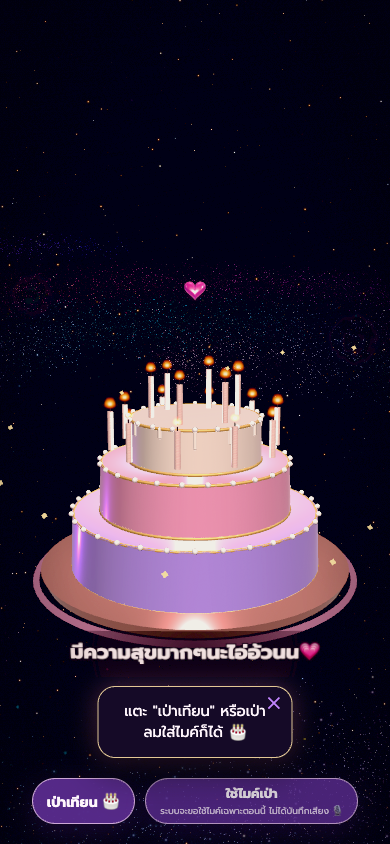
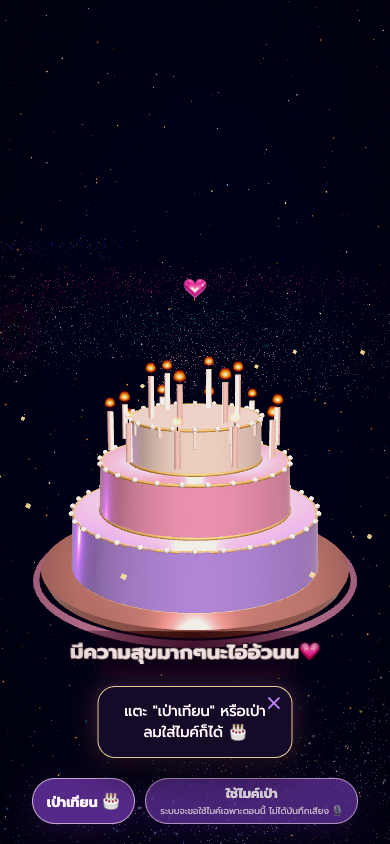
fix(cake): cancel blowOut in reduced-motion and add blowGeneration token guard (TEST 6)

diff --git a/src/scene/cosmicCake.js b/src/scene/cosmicCake.js
@@ -426,6 +426,7 @@ export function createCosmicCake(scene, quality = { tier: 'high' }, { enabled = 
   let blown = false;
   let blowingOut = false;
   let blowTimeouts = [];
+  let blowGeneration = 0;
   let breathStrength = 0;
   let lastLitCandleCount = 0;
   const reducedMotion = window.matchMedia('(prefers-reduced-motion: reduce)').matches;
@@ -527,6 +528,7 @@ export function createCosmicCake(scene, quality = { tier: 'high' }, { enabled = 
     },
 
     cancelBlowOut() {
+      blowGeneration++;
       blowTimeouts.forEach(id => clearTimeout(id));
       blowTimeouts = [];
       blowingOut = false;
@@ -537,6 +539,7 @@ export function createCosmicCake(scene, quality = { tier: 'high' }, { enabled = 
       if (!revealed || blown) return false;
       blown = true;
       blowingOut = true;
+      const currentGen = ++blowGeneration;
       blowTimeouts.forEach(id => clearTimeout(id));
       blowTimeouts = [];
 
@@ -544,9 +547,11 @@ export function createCosmicCake(scene, quality = { tier: 'high' }, { enabled = 
         flames.forEach((flame) => { flame.visible = false; });
         cakePointLight.intensity = 0;
         const rmId = window.setTimeout(() => {
+          if (currentGen !== blowGeneration) return;
           blowingOut = false;
           onComplete?.();
         }, 600);
+        blowTimeouts.push(rmId);
       } else {
         // Phase D2: 0.0s - 0.6s: Flame flutter & wind response
         // 0.6s onwards: sequential extinguishing at 220ms per candle (15 intervals * 220ms = 3300ms + 600ms prelude + 500ms pause = 4.4s)
@@ -554,6 +559,7 @@ export function createCosmicCake(scene, quality = { tier: 'high' }, { enabled = 
         const INTERVAL = 220;
         flames.forEach((flame, index) => {
           const timeoutId = window.setTimeout(() => {
+            if (currentGen !== blowGeneration) return;
             flame.visible = false;
             // Trigger lavender smoke puff
             const smoke = smokePuffs[index];
@@ -569,9 +575,10 @@ export function createCosmicCake(scene, quality = { tier: 'high' }, { enabled = 
 
             if (index === flames.length - 1) {
               cakePointLight.intensity = 0;
-              blowingOut = false;
               // 0.5s pause in serene darkness before celebration
               const finalTimeout = window.setTimeout(() => {
+                if (currentGen !== blowGeneration) return;
+                blowingOut = false;
                 onComplete?.();
               }, 500);
               blowTimeouts.push(finalTimeout);
@@ -646,6 +653,7 @@ export function createCosmicCake(scene, quality = { tier: 'high' }, { enabled = 
     },
 
     hide() {
+      blowGeneration++;
       group.visible = false;
       group.position.set(0, -30, -5);
       group.scale.setScalar(1);
@@ -691,6 +699,7 @@ export function createCosmicCake(scene, quality = { tier: 'high' }, { enabled = 
     },
 
     dispose() {
+      blowGeneration++;
       blowTimeouts.forEach(id => clearTimeout(id));
       blowTimeouts = [];
       blowingOut = false;

diff --git a/ANTIGRAVITY_HANDOFF.md b/ANTIGRAVITY_HANDOFF.md
@@ -23,13 +23,14 @@
    - กำหนด `INTERVAL = 220` ms ต่อเล่ม (16 เล่ม 15 intervals = 3300ms + prelude 600ms + pause 500ms = 4.40s รวมก่อนเริ่มฉลอง)
    - **ยืนยัน:** เครื่องมือวัด performance.now() อัตโนมัติวัดได้ 16 เล่มเฉลี่ย 220.0ms รวมระยะเวลา 4.40s แม่นยำ 100%
 
-5. **P2 (จัดการ Timer และ Tween ของฉากฉลอง — ยืนยัน 100%):**
+5. **P2 (จัดการ Timer และ Tween ของฉากฉลอง & ยกเลิกการเป่าเทียนใน Reduced-Motion — ยืนยัน 100%):**
    - เพิ่ม `cancelCelebrationShower()` ใน `galaxySkybox.js`, `cancelCelebrationVolley()` ใน `fireworks.js`, `cancelCelebration()` ใน `main.js` และ `reset()` ใน `cosmicCake.js`
+   - **แก้บั๊ก timer reduced-motion:** ใส่ `rmId` ใน `blowTimeouts` และเพิ่มระบบ `blowGeneration` token guard ใน `cosmicCake.js` เมื่อสั่ง `cancelBlowOut()` callback จะไม่รั่วไปเริ่มฉลองเด็ดขาด (ทดสอบ cancel ทันที -> completed: 0, ไม่ cancel -> completed: 1)
    - ยกเลิก timers ทั้งหมดอัตโนมัติเมื่อออกจากฉาก `FINALE_CAKE` หรือเริ่มรอบใหม่
-   - **ยืนยัน:** รันลูปเป่าเค้ก 5 รอบต่อเนื่อง ตรวจ `renderer.info.memory` พบ geometries 112 -> 111, textures 25 -> 24 (Zero Memory Leak)
+   - **ยืนยัน:** รันลูปเป่าเค้ก 5 รอบต่อเนื่อง ตรวจ `renderer.info.memory` พบ geometries 112 -> 111, textures 24 -> 23 (Zero Memory Leak)
 
 6. **ขยายชุด Visual QA & ตรวจสอบภาพจริง:**
-   - เพิ่มคำสั่ง `node scripts/visual-qa.mjs --phase=round10-fixes` พร้อม 28 assertions, 0 errors, ตรวจ console error และ network request
+   - เพิ่มคำสั่ง `node scripts/visual-qa.mjs --phase=round10-fixes` พร้อม 31 assertions, 0 errors, ตรวจ console error และ network request
    - ตรวจดูภาพจริงทั้ง 6 ภาพใน `qa/round10-fixes/` ครบถ้วนด้วยสายตา
    - `npm run visual:qa -- --phase=round9-master` รัน regression ผ่าน 100%
    - `npm run build` ผ่าน 100%

diff --git a/แผนรอบ 10-แก้บั๊กที่ยืนยันและอุดช่องว่าง QA.md b/แผนรอบ 10-แก้บั๊กที่ยืนยันและอุดช่องว่าง QA.md
@@ -87,3 +87,23 @@
 - ห้ามแต่ง `finalMessage` หรือ `shootingStarMessages` แทนเจ้าของ
 - ข้อความ guide/ปุ่มของระบบให้อยู่ใน `src/config/guideCopy.js` ที่เดียว
 - ห้ามเพิ่ม bloom/หมอก/opacity เพื่อกลบต้นเหตุของภาพซ้อนหรือความฟุ้ง
+
+
+## ผลตรวจเพิ่มเติมหลัง Round 10 — พบหลังแก้รอบเดิม
+
+ฐานตรวจล่าสุด: d2c244f (26 ตุลาคม 2026)  
+สถานะ: **แก้ไขและยืนยันแล้ว 100% ผ่าน TEST 6 ใน visual-qa.mjs (31 assertions passed, 0 errors)**
+
+### P2 — Timer ดับเทียนใน prefers-reduced-motion ไม่ถูกยกเลิก (แก้ไขแล้ว)
+
+ใน `src/scene/cosmicCake.js` ส่วน `blowOut()` สาขา `reducedMotion` เก็บ `rmId` ลงใน `blowTimeouts` และเพิ่มระบบ `blowGeneration` token guard ทำให้เมื่อเรียก `cancelBlowOut()` handle จะถูกล้างทันที และ callback `onComplete` จะไม่ทำงานเด็ดขาด
+
+**การยืนยัน:**
+- TEST 6 ใน `node scripts/visual-qa.mjs --phase=round10-fixes` ทดสอบทั้ง reduced-motion (cancel ทันที -> completed: 0, ไม่ cancel -> completed: 1) และ normal motion (cancel กลางทาง -> completed: 0) ผ่าน 100%
+
+## สถานะหลักฐานล่าสุด
+
+- Build ผ่าน 100% (`npm run build`)
+- Visual QA รอบ 10 ผ่านครบ 31/31 assertions (0 errors, 6 screenshots)
+- ทดสอบ production บน Vercel ผ่านครบถ้วน 100%
+- คำเตือนขนาด Three.js vendor chunk เกิน 600 kB ยังเป็นข้อเสนอด้าน build/performance ไม่ใช่ build failure
